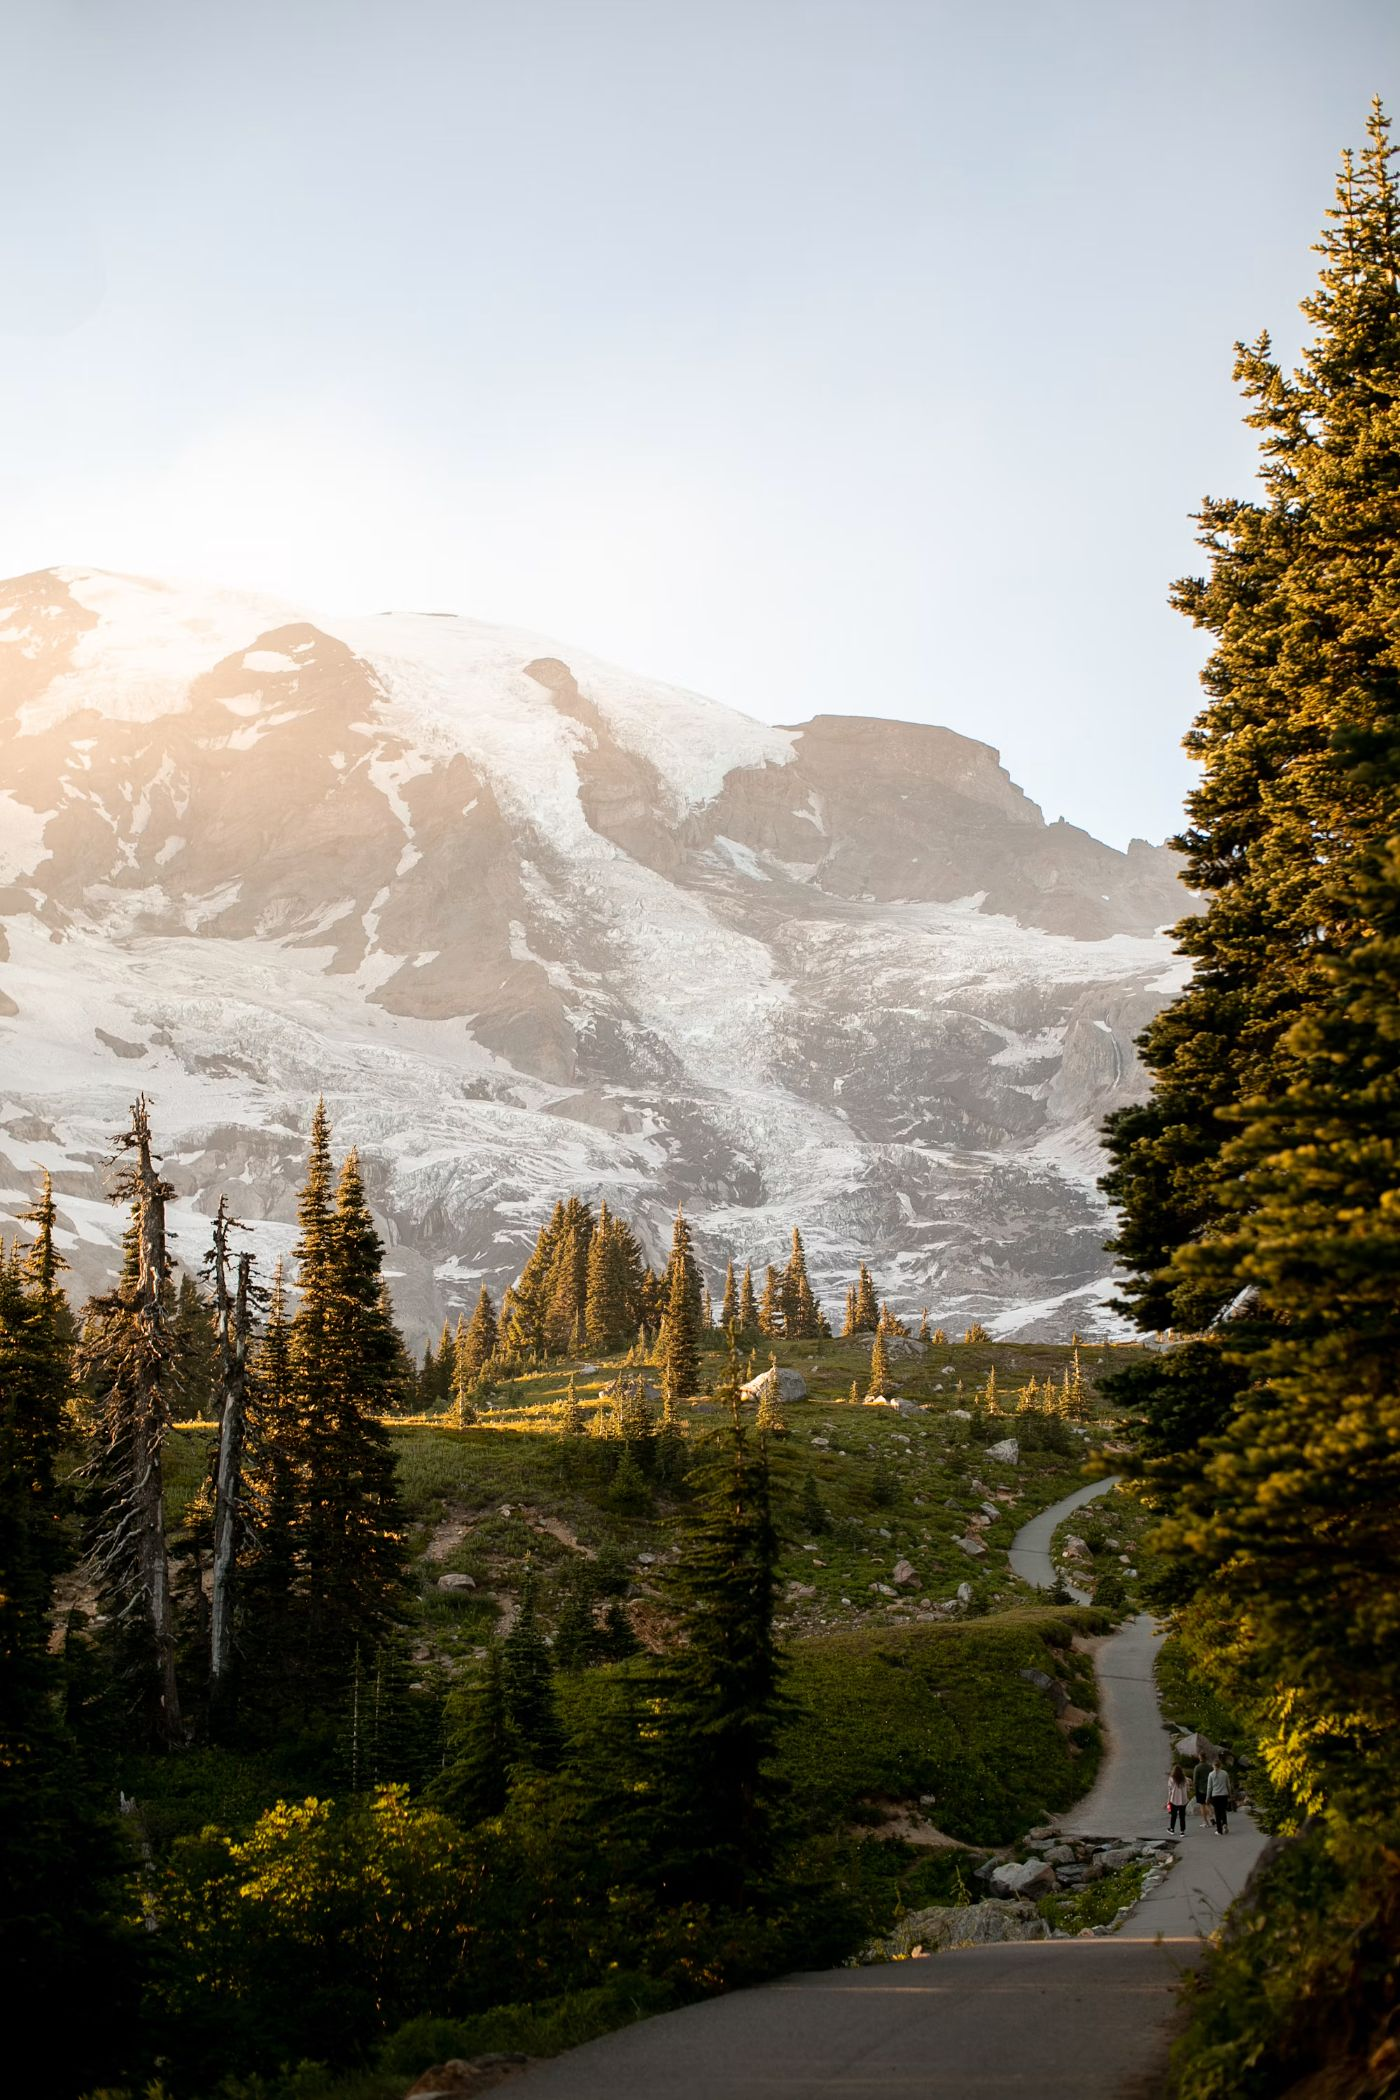
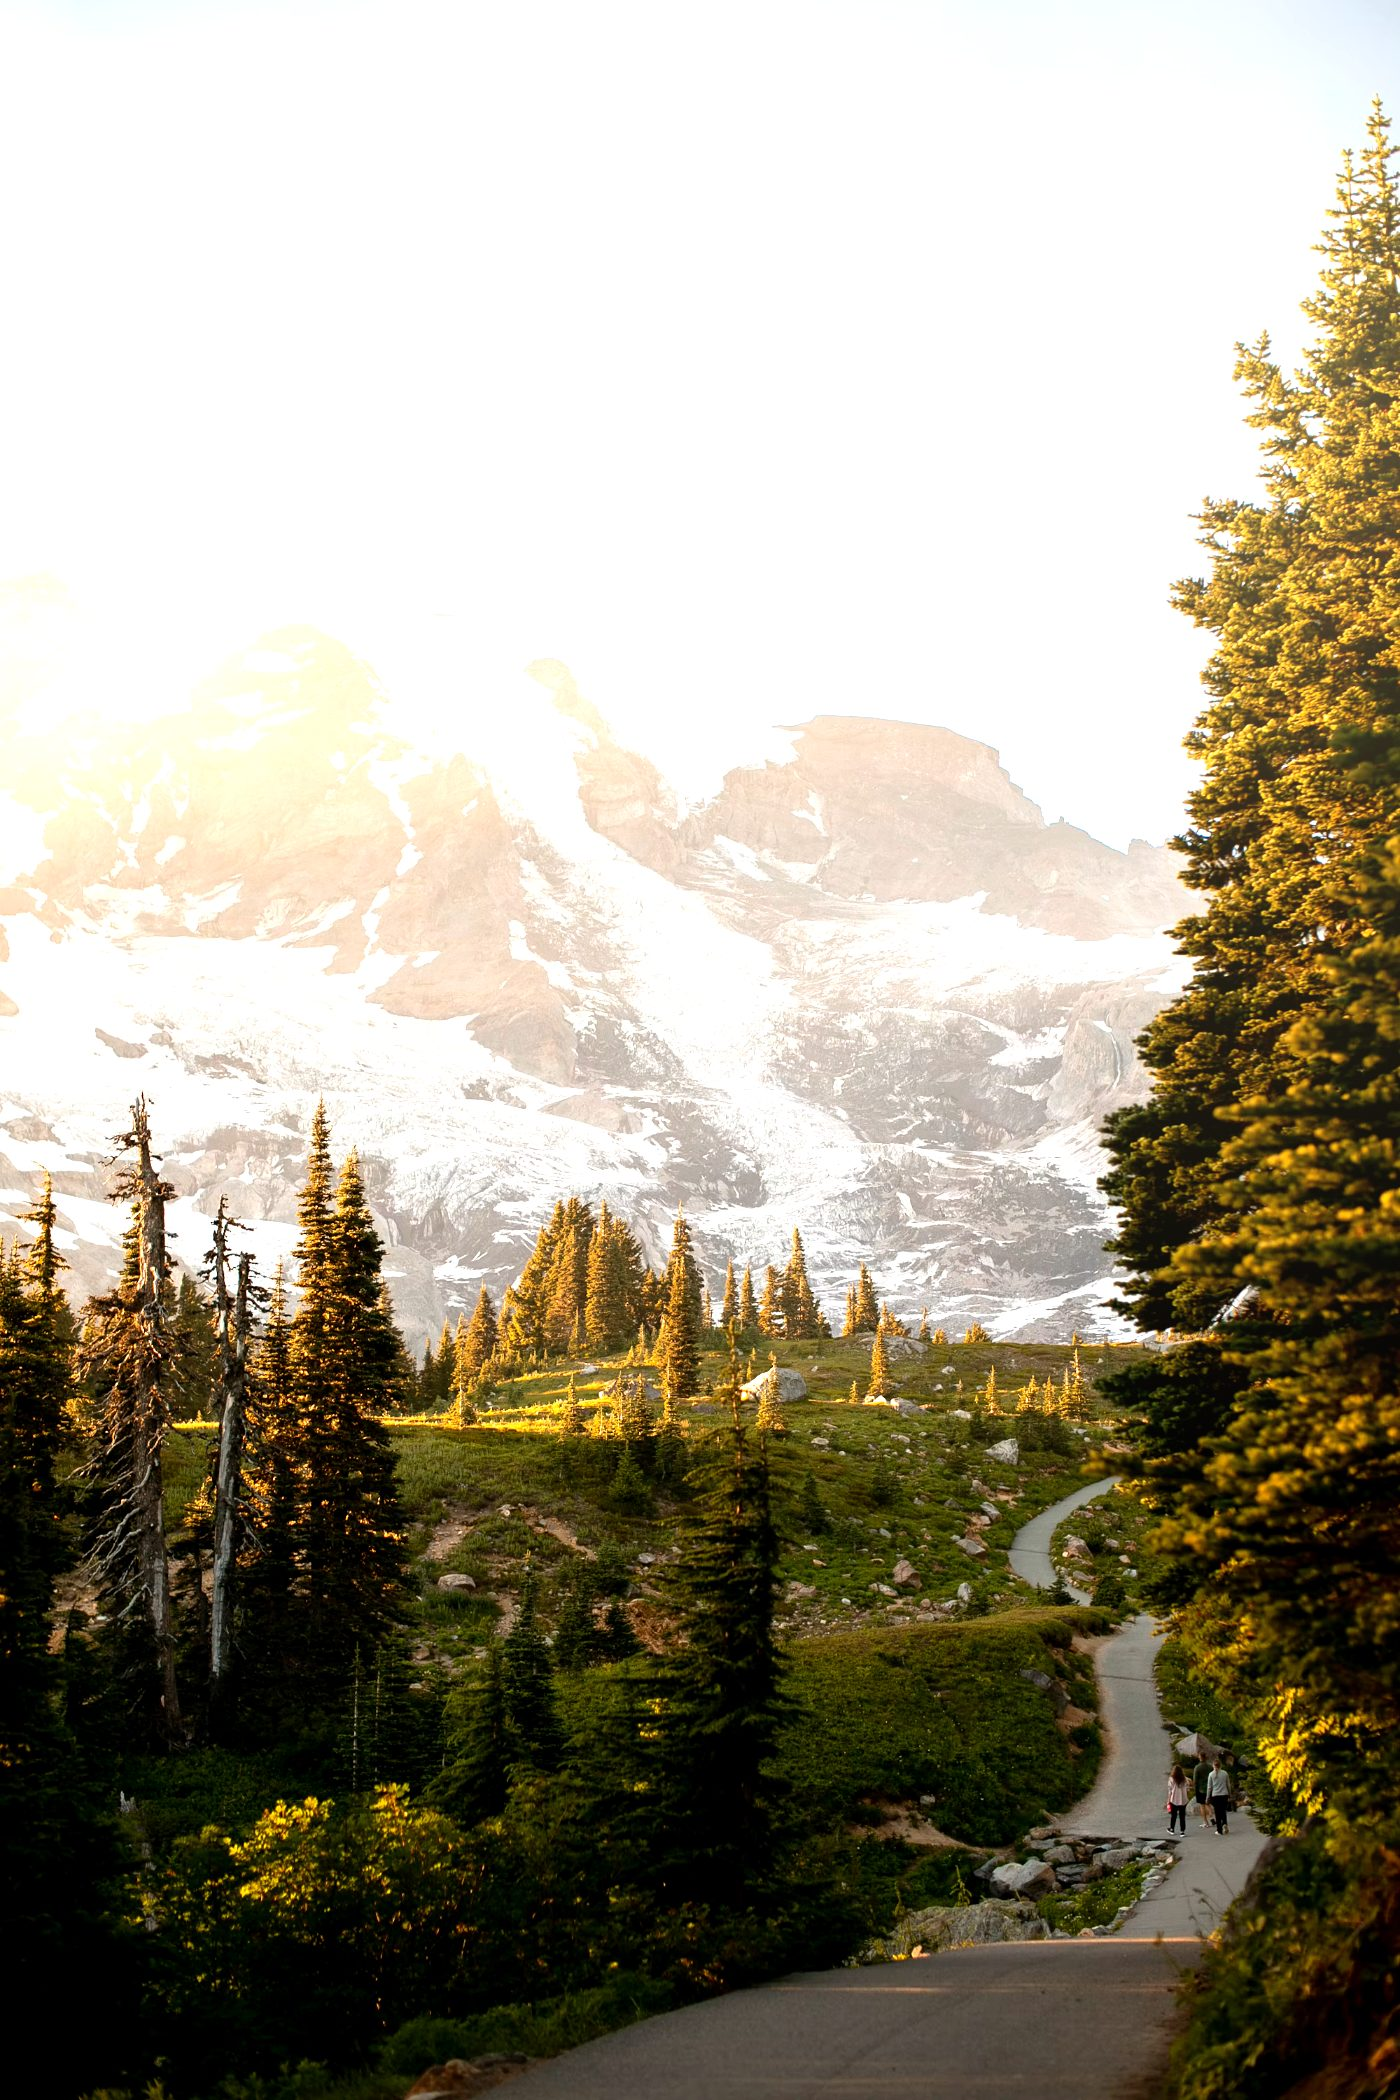
Add files via upload

diff --git a/index.html b/index.html
@@ -25,7 +25,7 @@ header{position:absolute;inset:0 0 auto 0;z-index:10;color:#fff}
 nav{margin-left:auto;display:flex;gap:6px 18px;flex-wrap:wrap;font-size:.95rem}
 nav a{color:#fff;text-decoration:none;padding:4px 0;border-bottom:2px solid transparent}
 nav a:hover{border-color:var(--dawn)}
-.hero{position:relative;min-height:88vh;display:flex;align-items:flex-end;color:#fff;background:linear-gradient(100deg,rgba(14,46,39,.32) 5%,rgba(14,46,39,0) 55%),linear-gradient(rgba(255,255,255,.2),rgba(255,255,255,.2)),url(hero.jpg) center 86%/cover;overflow:hidden}
+.hero{position:relative;min-height:88vh;display:flex;align-items:flex-end;color:#fff;background:radial-gradient(circle at 88% 4%,rgba(255,244,200,.85) 0,rgba(255,236,170,.4) 22%,rgba(255,236,170,0) 52%),linear-gradient(100deg,rgba(14,46,39,.3) 5%,rgba(14,46,39,0) 55%),url(hero.jpg) center 86%/cover;overflow:hidden}
 .hero .w{width:100%;padding-top:150px;padding-bottom:110px;position:relative;z-index:2}
 .hero h1{font-size:clamp(2.6rem,7vw,5rem);max-width:12ch;font-weight:700}
 .hero p{max-width:34rem;font-size:1.2rem;margin:18px 0 28px}
@@ -96,7 +96,7 @@ footer{background:#0f2e28;color:#cfe0d9;text-align:center;padding:28px 16px;font
 .tile h3{font-size:1.4rem;margin-bottom:8px}
 .tile p{margin:0;opacity:.92}
 .t1{background:var(--forest)}.t2{background:var(--river)}.t3{background:var(--pine)}.t4{background:#c97b2e}.t5{background:#3f5f8f}
-.mission{background:linear-gradient(rgba(14,46,39,.28),rgba(14,46,39,.28)),url(hero.jpg) center 62%/cover fixed;color:#fff;text-align:center;padding:90px 0}
+.mission{background:linear-gradient(rgba(14,46,39,.22),rgba(14,46,39,.22)),url(hero.jpg) center 62%/cover fixed;color:#fff;text-align:center;padding:90px 0}
 .mission p{font-family:Fraunces,serif;font-size:clamp(1.7rem,4.2vw,2.8rem);line-height:1.25;max-width:22em;margin:0 auto 26px}
 .person{border-top:6px solid var(--pine);transition:transform .2s,box-shadow .2s}
 .person:nth-child(3n+2){border-top-color:var(--dawn)}.person:nth-child(3n){border-top-color:var(--river)}
